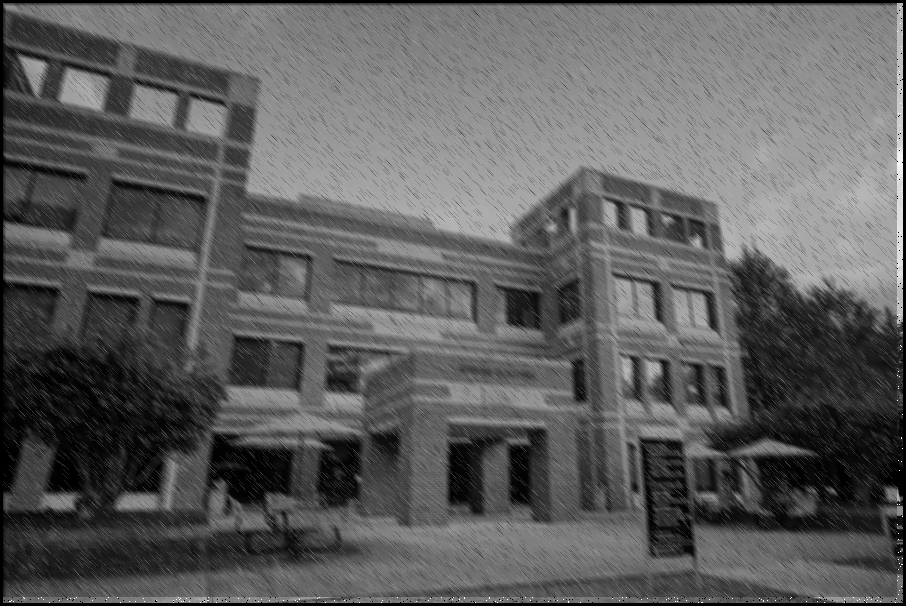
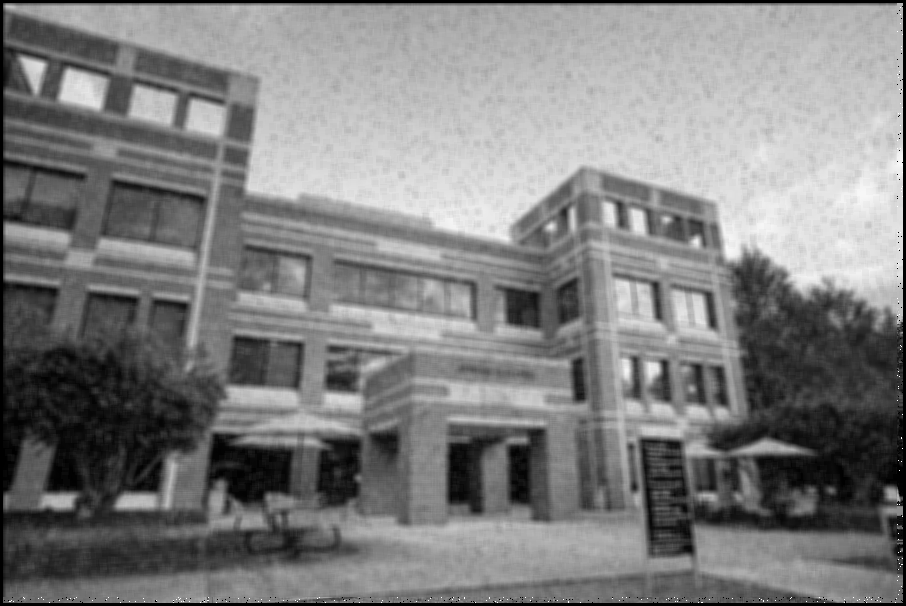
fixed average and median filtering, added output

diff --git a/Project 2 Image Enhancement/noiseReduction.py b/Project 2 Image Enhancement/noiseReduction.py
@@ -10,15 +10,16 @@ import matplotlib.pyplot as plottool
 import statistics
 def averageFilter(x,y,size):
     s =0
-    for i in range(-int(size/2),int(size/2)):
-       for j in range(-int(size/2),int(size/2)):
-        s+= padded[x+i][y+i][0] / size**2
+    for i in range(-int(size/2),int(size/2)+1):
+       for j in range(-int(size/2),int(size/2)+1):
+        s+= padded[x+i][y+j][0] / size**2
     return s 
 def medianFilter(x,y,size):
     s =[]
-    for i in range(-int(size/2),int(size/2)):
-       for j in range(-int(size/2),int(size/2)):
-        s.append( padded[x+i][y+i])
+    for i in range(-int(size/2),int(size/2)+1):
+       for j in range(-int(size/2),int(size/2)+1):
+        s.append( padded[x+i][y+j][0])
+    s.sort()
     return statistics.median(s)
 filter_size = [3,5,7]
 noisyAtriumPath = 'input/noisy_atrium.png'
@@ -27,34 +28,24 @@ noisyAtrium = cv2.cvtColor(noisyAtrium,cv2.COLOR_BGR2RGB)
 print(noisyAtrium.shape)
 plottool.imshow(noisyAtrium)
 plottool.show()
-
 for i in filter_size:
     padding = int(i/2)
     padded = cv2.copyMakeBorder(noisyAtrium,padding,padding,padding,padding,cv2.BORDER_CONSTANT,value=[0,0,0])
     out = padded.copy()
-    print("Before")
-    plottool.imshow(out)
-    plottool.show()  
     for k in range (padding,noisyAtrium.shape[0]-padding):
         for j in range(padding,noisyAtrium.shape[1]-padding):
-            out[k][j] = averageFilter(k,j,i)
-           
-    print("after")
+            out[k][j] = averageFilter(k,j,i)           
     cv2.imwrite(f'output/reduction/average/filtersize-{i}.png',out)
     plottool.imshow(out)
     plottool.show()        
 for i in filter_size:
     padding = int(i/2)
     padded = cv2.copyMakeBorder(noisyAtrium,padding,padding,padding,padding,cv2.BORDER_CONSTANT,value=[0,0,0])
-    out = padded.copy()
-    print("Before")
-    plottool.imshow(out)
-    plottool.show()  
+    out = padded.copy() 
     for k in range (padding,noisyAtrium.shape[0]-padding):
         for j in range(padding,noisyAtrium.shape[1]-padding):
             out[k][j] = medianFilter(k,j,i)
            
-    print("after")
     cv2.imwrite(f'output/reduction/median/filtersize-{i}.png',out)
     plottool.imshow(out)
     plottool.show()  
